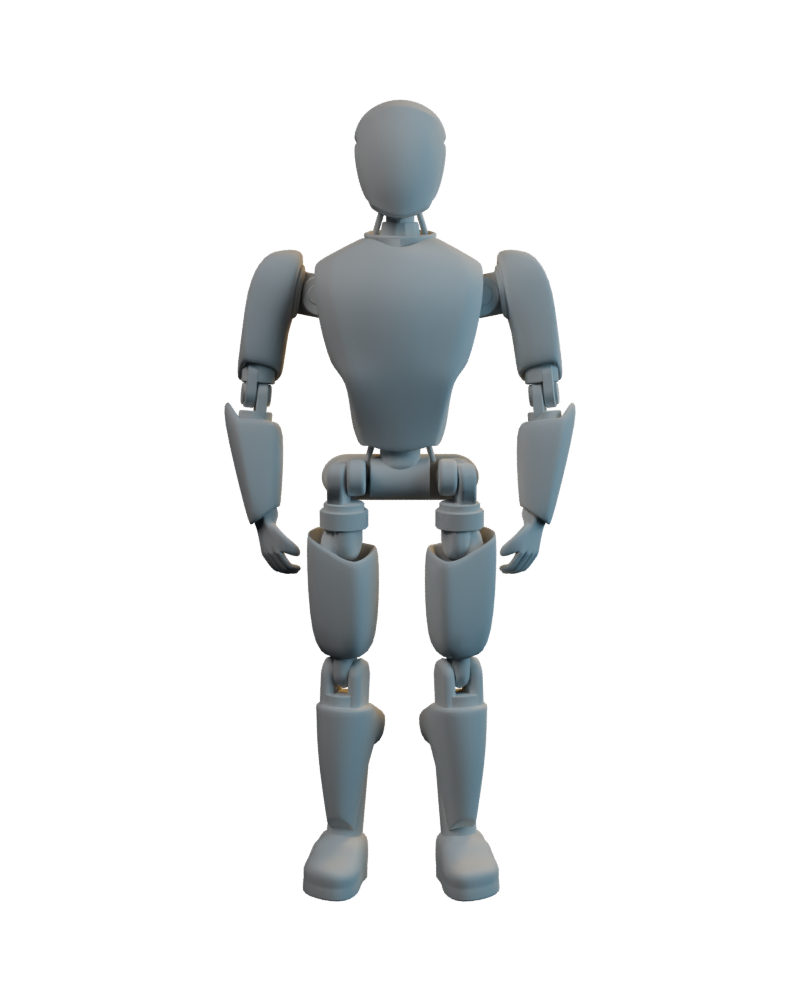
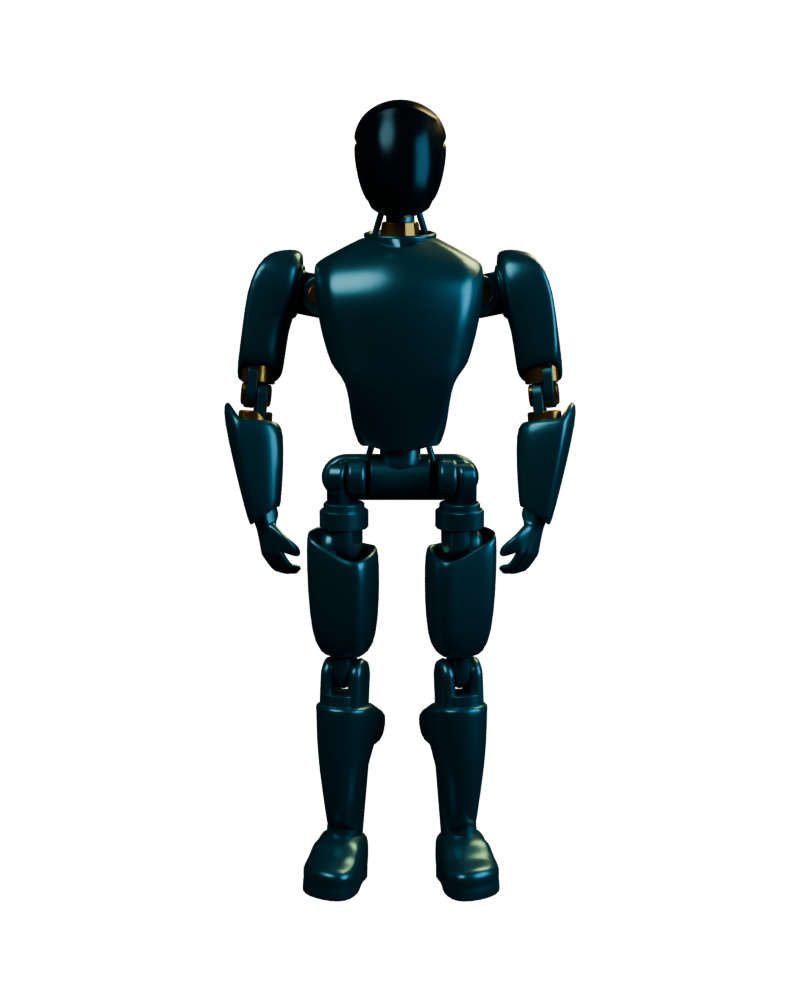
Update robot model and app scene with new landing visuals
Replit-Commit-Author: Agent

Changed region(s): [[0.2812, 0.093, 0.7188, 0.899]]

diff --git a/artifacts/history-comparison-lab/src/App.tsx b/artifacts/history-comparison-lab/src/App.tsx
@@ -121,24 +121,13 @@ function Landing({ onBegin }: { onBegin: () => void }) {
     <motion.div variants={pageVariants} initial="initial" animate="animate" exit="exit" className="relative min-h-[100dvh] flex flex-col pt-[89px]">
       {/* Cinematic Background */}
       <div className="absolute inset-0 z-0 bg-background overflow-hidden pointer-events-none">
-        <div className="absolute top-0 left-0 w-full lg:w-1/2 h-full bg-gradient-to-br from-[#4A6D7C]/15 to-transparent" />
+        <div className="absolute top-0 right-0 w-full lg:w-1/2 h-full bg-gradient-to-bl from-[#4A6D7C]/15 to-transparent" />
       </div>
 
       <div className="flex-1 relative z-10 w-full flex flex-col lg:flex-row max-w-[1600px] mx-auto">
-        
-        {/* Left Side: Robot */}
-        <div className="w-full lg:w-1/2 h-[38vh] min-h-[280px] lg:h-[calc(100vh-89px)] relative group order-1 pb-4 lg:pb-0">
-          <Scene 
-            id="landing-ai"
-            isAi={true} 
-            autoActivate
-            webglClassName="opacity-100 transition-opacity duration-1000" 
-            fallbackClassName="opacity-100 transition-transform duration-1000 group-hover:scale-105"
-          />
-        </div>
 
-        {/* Right Side: Content */}
-        <div className="w-full lg:w-1/2 flex flex-col justify-start px-6 sm:px-12 lg:px-20 xl:px-24 py-4 lg:pt-10 xl:pt-14 order-2 text-center lg:text-left z-20 pb-6 lg:pb-32">
+        {/* Left Side: Content */}
+        <div className="w-full lg:w-1/2 flex flex-col justify-start px-6 sm:px-12 lg:px-20 xl:px-24 py-4 lg:pt-10 xl:pt-14 order-1 text-center lg:text-left z-20 pb-6 lg:pb-32">
           <div className="max-w-xl mx-auto lg:mx-0">
              <span className="inline-block font-mono text-[10px] sm:text-xs uppercase tracking-[.3em] text-[#4A6D7C] mb-4 sm:mb-5 px-4 py-2 rounded-full border border-[#4A6D7C]/30 bg-[#4A6D7C]/5 backdrop-blur-sm">
                Зерттеу зертханасы
@@ -159,6 +148,17 @@ function Landing({ onBegin }: { onBegin: () => void }) {
                </PrimaryButton>
              </div>
           </div>
+        </div>
+
+        {/* Right Side: Robot */}
+        <div className="w-full lg:w-1/2 h-[38vh] min-h-[280px] lg:h-[calc(100vh-89px)] relative group order-2 pb-4 lg:pb-0">
+          <Scene 
+            id="landing-ai"
+            isAi={true} 
+            autoActivate
+            webglClassName="opacity-100 transition-opacity duration-1000" 
+            fallbackClassName="opacity-100 transition-transform duration-1000 group-hover:scale-105"
+          />
         </div>
 
       </div>

diff --git a/artifacts/history-comparison-lab/src/components/3d/RobotScene.tsx b/artifacts/history-comparison-lab/src/components/3d/RobotScene.tsx
@@ -104,6 +104,18 @@ export default function RobotScene({ placement, onReady, onError }: RobotScenePr
           if (child instanceof THREE.Mesh) {
             child.castShadow = true;
             child.receiveShadow = true;
+            child.geometry.computeBoundingBox();
+            const partSize = child.geometry.boundingBox?.getSize(new THREE.Vector3()) ?? new THREE.Vector3(1, 1, 1);
+            const isJoint = Math.max(partSize.x, partSize.y, partSize.z) < 0.24;
+            const isHead = child.name.toLowerCase().includes('head');
+            const material = new THREE.MeshStandardMaterial({
+              color: isHead ? 0x182a33 : isJoint ? 0xcfa052 : 0x4a6d7c,
+              metalness: isJoint ? 0.82 : 0.68,
+              roughness: isJoint ? 0.3 : 0.38,
+              emissive: isHead ? 0x07171e : 0x000000,
+              emissiveIntensity: isHead ? 0.32 : 0,
+            });
+            child.material = material;
           }
         });
 
